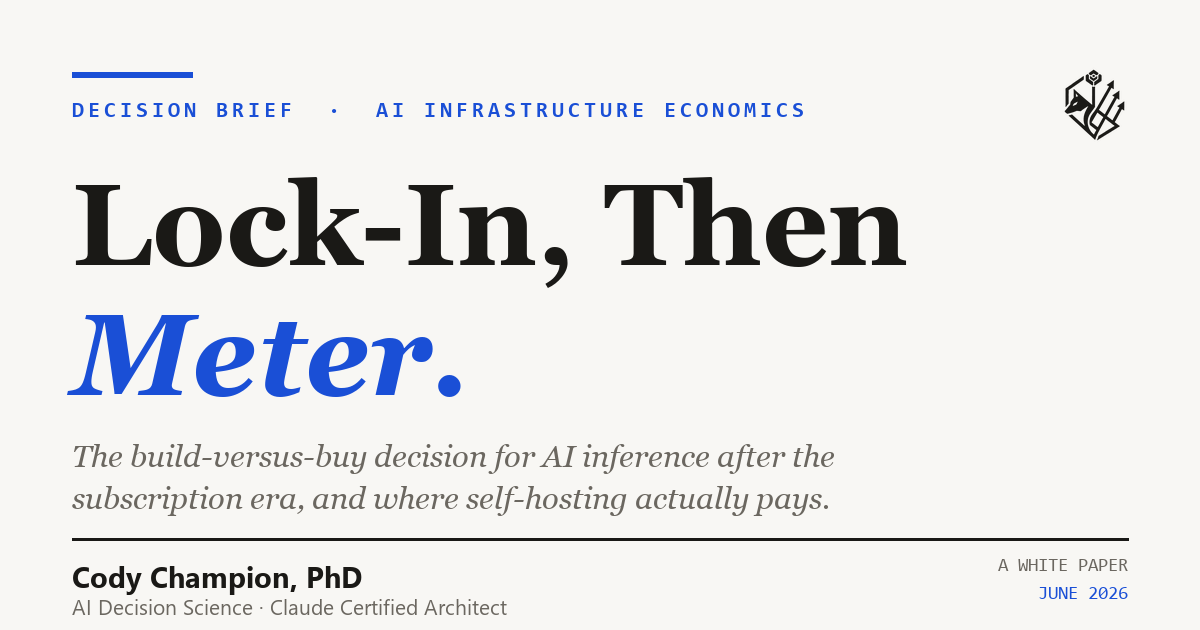
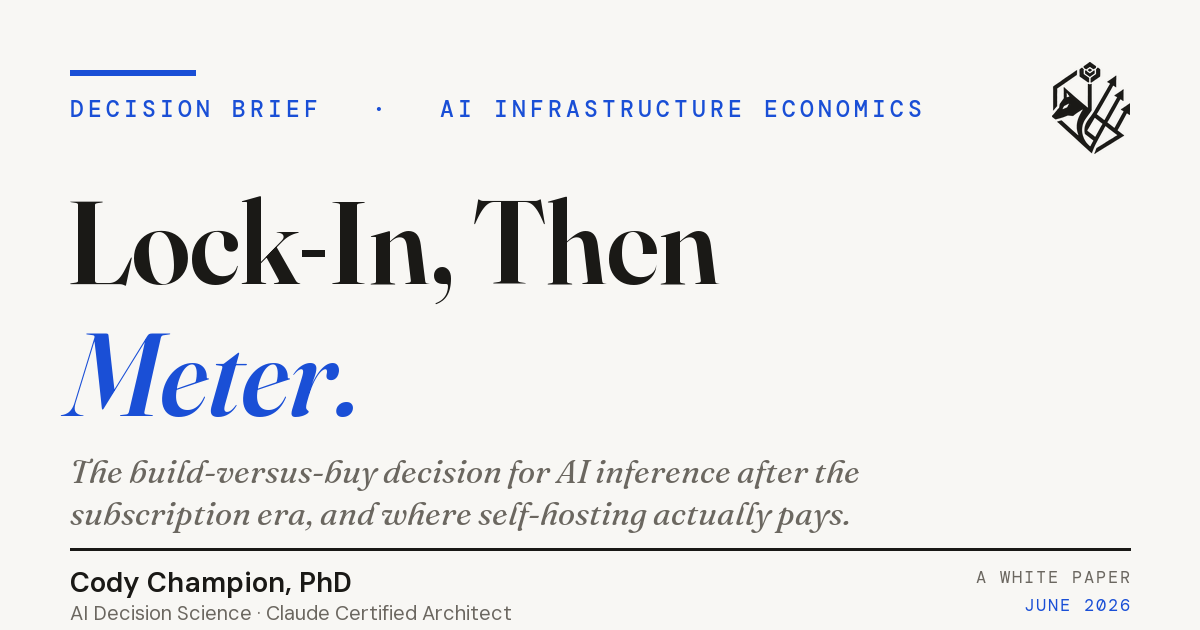
refactor(cv): move Lock-In, Then Meter brief to /writing/ + add Writing section index
Reorganize the white paper under a /writing/ taxonomy and regenerate its OG
card with the real brand fonts.

- git mv lock-in-then-meter/ -> writing/lock-in-then-meter/ (page + 3 downloads),
  remove the now-empty old dir
- fix the page's relative asset depth (../assets -> ../../assets for crest/icon)
  and absolutize the print link; update canonical + og:url to the new URL
- add satellites/cv/writing/index.html section index on the existing
  pillar-page.css convention (nav, hero, content, footer)
- rewire every reference to /writing/lock-in-then-meter/: cv-data.js caseStudies
  link, homepage SEO-fallback card, case-study-ml-cost cross-links, sitemap
  (plus a /writing/ section entry), llms.txt
- regenerate assets/lock-in-then-meter-og.png at 1200x630 with the real webfonts
  (Fraunces title, DM Mono eyebrow/tag, DM Sans byline), ink crest, paper bg

Verified over a local http server: new path + all 3 downloads return 200, crest
assets resolve from the new depth, no stale /lock-in-then-meter/ links remain,
no console errors.

diff --git a/writing/lock-in-then-meter/index.html b/writing/lock-in-then-meter/index.html
@@ -8,7 +8,7 @@
 <meta property="og:title" content="Lock-In, Then Meter | Cody Champion">
 <meta property="og:description" content="The build-versus-buy decision for AI inference after the subscription era. Managed open-model inference usually wins on cost; owning hardware only pays past roughly 100B tokens/month with a platform team. The real hedge is switchability.">
 <meta property="og:type" content="article">
-<meta property="og:url" content="https://codychampion.bitsandbeakers.com/lock-in-then-meter/">
+<meta property="og:url" content="https://codychampion.bitsandbeakers.com/writing/lock-in-then-meter/">
 <meta property="og:image" content="https://codychampion.bitsandbeakers.com/assets/lock-in-then-meter-og.png">
 <meta property="og:image:width" content="1200">
 <meta property="og:image:height" content="630">
@@ -16,8 +16,8 @@
 <meta name="twitter:title" content="Lock-In, Then Meter | Cody Champion">
 <meta name="twitter:description" content="Build versus buy for AI inference after the flat-rate era. Switchability beats owning GPUs; owned hardware only pays past ~100B tokens/month.">
 <meta name="twitter:image" content="https://codychampion.bitsandbeakers.com/assets/lock-in-then-meter-og.png">
-<link rel="canonical" href="https://codychampion.bitsandbeakers.com/lock-in-then-meter/">
-<link rel="icon" href="../assets/crest_dark.png">
+<link rel="canonical" href="https://codychampion.bitsandbeakers.com/writing/lock-in-then-meter/">
+<link rel="icon" href="../../assets/crest_dark.png">
 
 <link rel="preconnect" href="https://fonts.googleapis.com">
 <link rel="preconnect" href="https://fonts.gstatic.com" crossorigin>
@@ -87,13 +87,13 @@ img,svg{max-width:100%;height:auto;}
 .nav-bar a:hover{color:var(--c-text);text-decoration:none;}
 .nav-bar__right{display:flex;align-items:center;gap:var(--s-4);}
 .brand{display:flex;align-items:baseline;gap:var(--s-2);font-family:var(--font-display);font-weight:600;font-size:var(--t-md);color:var(--c-text);letter-spacing:.04em;}
-.brand .crest{display:inline-block;width:14px;height:16px;background-color:var(--c-text);-webkit-mask:url('../assets/crest_white.png') center/contain no-repeat;mask:url('../assets/crest_white.png') center/contain no-repeat;vertical-align:-2px;margin-right:4px;}
+.brand .crest{display:inline-block;width:14px;height:16px;background-color:var(--c-text);-webkit-mask:url('../../assets/crest_white.png') center/contain no-repeat;mask:url('../../assets/crest_white.png') center/contain no-repeat;vertical-align:-2px;margin-right:4px;}
 .theme-toggle{background:none;border:1px solid var(--c-border);border-radius:var(--r-sm);color:var(--c-text-subtle);font-size:13px;line-height:1;padding:5px 8px;cursor:pointer;font-family:var(--font-ui);}
 .theme-toggle:hover{color:var(--c-text);border-color:var(--c-border-strong);}
 
 /* crest mask, recolorable (per system) */
 .crest{display:inline-block;background-color:var(--c-accent);
-  -webkit-mask:url('../assets/crest_white.png') center/contain no-repeat; mask:url('../assets/crest_white.png') center/contain no-repeat;}
+  -webkit-mask:url('../../assets/crest_white.png') center/contain no-repeat; mask:url('../../assets/crest_white.png') center/contain no-repeat;}
 .crest--ink{background-color:var(--c-text);}
 
 /* eyebrow / mode-chip register */
@@ -216,7 +216,7 @@ ul.tight li b{color:var(--c-text);}
 .foot{margin-top:var(--s-24);padding-top:var(--s-6);border-top:1px solid var(--c-border-strong);display:flex;justify-content:space-between;align-items:end;gap:var(--s-6);font-family:var(--font-ui);font-size:var(--t-sm);color:var(--c-text-subtle);}
 .foot a{color:var(--c-text);text-decoration:underline;text-underline-offset:4px;text-decoration-color:var(--c-accent);}
 .foot__disclaimer{margin-top:var(--s-2);color:var(--c-text-subtle);font-style:italic;}
-.foot__crest{width:40px;height:46px;flex-shrink:0;background-color:var(--c-text);-webkit-mask:url('../assets/crest_white.png') center/contain no-repeat;mask:url('../assets/crest_white.png') center/contain no-repeat;}
+.foot__crest{width:40px;height:46px;flex-shrink:0;background-color:var(--c-text);-webkit-mask:url('../../assets/crest_white.png') center/contain no-repeat;mask:url('../../assets/crest_white.png') center/contain no-repeat;}
 
 /* ── RESPONSIVE ── */
 @media(max-width:720px){
@@ -466,7 +466,7 @@ ul.tight li b{color:var(--c-text);}
 
   <div class="foot">
     <div>
-      <p><a href="/">← Back to CV</a> &middot; <a href="/case-study-ml-cost">ML Cost case study</a> &middot; <a href="print.html">Print CV</a></p>
+      <p><a href="/">← Back to CV</a> &middot; <a href="/case-study-ml-cost">ML Cost case study</a> &middot; <a href="/print.html">Print CV</a></p>
       <p style="margin-top:var(--s-2);color:var(--c-text-subtle);">AI Decision Science &middot; Inference Economics &middot; C&middot;C ◆ 2026</p>
       <p class="foot__disclaimer">Views my own. Not written for or on behalf of any employer or client.</p>
     </div>

diff --git a/writing/index.html b/writing/index.html
@@ -1,0 +1,51 @@
+<!doctype html>
+<html lang="en">
+<head>
+<meta charset="utf-8">
+<meta name="viewport" content="width=device-width, initial-scale=1">
+<title>Writing | Cody Champion</title>
+<meta name="description" content="Decision briefs and white papers on applied AI: infrastructure economics, build-versus-buy for inference, and the engineering behind regulated GenAI systems.">
+<link rel="canonical" href="https://codychampion.bitsandbeakers.com/writing/">
+<link rel="stylesheet" href="../pillar-page.css">
+<link rel="preconnect" href="https://fonts.googleapis.com">
+<link href="https://fonts.googleapis.com/css2?family=Fraunces:wght@400;500;600&family=Lora:wght@400;500&family=DM+Sans:wght@400;500;600&family=DM+Mono:wght@400;500&display=swap" rel="stylesheet">
+</head>
+<body>
+<main class="page">
+  <nav class="nav">
+    <a class="brand" href="/">cody.champion</a>
+    <div class="links">
+      <a href="/">Profile</a>
+      <a href="/projects/llm-eval-workbench">LLM workbench</a>
+      <a href="/research/paef-contract-compliance">PAEF research</a>
+    </div>
+  </nav>
+  <header class="hero">
+    <div class="eyebrow">Writing - Decision Briefs &amp; White Papers</div>
+    <h1>Writing</h1>
+    <p class="deck">Decision briefs and white papers on applied AI: where the economics of inference actually land, and the engineering behind dependable, regulated GenAI systems.</p>
+    <div class="tags">
+      <span class="tag">AI Infrastructure</span><span class="tag">Inference Economics</span>
+      <span class="tag">Build vs Buy</span><span class="tag">LLMOps</span>
+      <span class="tag">Decision Briefs</span>
+    </div>
+  </header>
+  <div class="layout">
+    <aside class="rail">
+      <a href="#briefs">01 Briefs</a>
+    </aside>
+    <article class="content">
+      <section id="briefs">
+        <h2>Decision briefs</h2>
+        <div class="card">
+          <h3 style="margin-top:0;"><a href="/writing/lock-in-then-meter/">Lock-In, Then Meter</a></h3>
+          <p style="margin-bottom:0;">A build-versus-buy decision brief for AI inference after the flat-rate era. The real hedge against token metering is switchability, an OpenAI-compatible interface against interchangeable open-weight providers with a frontier model in reserve, not owning GPUs. Managed open-model inference usually wins on cost; owned hardware only pays past roughly 100B tokens/month with a platform team. Includes a downloadable PDF, an editable cost model, and the model source in Python.</p>
+        </div>
+        <p><a href="/writing/lock-in-then-meter/">Read the brief.</a></p>
+      </section>
+    </article>
+  </div>
+  <footer class="footer">Cody Champion - Dublin - Enterprise GenAI, LLM evaluation, and AI governance</footer>
+</main>
+</body>
+</html>

diff --git a/case-study-ml-cost.html b/case-study-ml-cost.html
@@ -597,14 +597,14 @@ Reduction:  ($26,200 − $90) / $26,200 = <span class="result">99.66%</span>
         <p>Baseline uses AWS on-demand public rates as conservative proxy. Actual contract rates were negotiated. Structural drivers and proportional reduction are accurate regardless.</p>
         <hr>
         <strong>Related</strong>
-        <p>The same cost-per-unit discipline applied to the build-vs-buy question for LLM inference: <a href="/lock-in-then-meter/">Lock-In, Then Meter</a>, a decision brief and cost model.</p>
+        <p>The same cost-per-unit discipline applied to the build-vs-buy question for LLM inference: <a href="/writing/lock-in-then-meter/">Lock-In, Then Meter</a>, a decision brief and cost model.</p>
       </aside>
 
     </div><!-- /cs-body -->
 
     <div class="foot">
       <div>
-        <p><a href="/">← Back to CV</a> · <a href="/lock-in-then-meter/">Lock-In, Then Meter</a> · <a href="print.html">Print CV</a></p>
+        <p><a href="/">← Back to CV</a> · <a href="/writing/lock-in-then-meter/">Lock-In, Then Meter</a> · <a href="print.html">Print CV</a></p>
         <p style="margin-top:var(--s-2);color:var(--c-text-subtle);">Production Engineering · Geospatial ML · MLOps · C·C ◆ 2025</p>
       </div>
       <div class="foot__crest"></div>

diff --git a/index.html b/index.html
@@ -342,7 +342,7 @@ img { max-width: 100%; height: auto; }
 
       <article style="margin-bottom:32px;">
         <h3 style="font-family:Georgia,serif;font-size:20px;margin:0 0 8px;">
-          <a href="/lock-in-then-meter/" style="color:#1a4fd6;text-decoration:none;">Lock-In, Then Meter</a>
+          <a href="/writing/lock-in-then-meter/" style="color:#1a4fd6;text-decoration:none;">Lock-In, Then Meter</a>
         </h3>
         <p style="margin:0 0 8px;">A build-versus-buy decision brief and cost model for AI inference after the flat-rate era. The real hedge against token metering is switchability, an OpenAI-compatible interface against interchangeable open-weight providers with a frontier model in reserve, not owning GPUs. Managed open-model inference usually wins on cost; owned hardware only pays past roughly 100B tokens/month with a platform team.</p>
         <p style="font-size:13px;color:#6b6760;margin:0;">White Paper · AI Infrastructure · LLMOps · Cost Modeling · Build vs Buy</p>

diff --git a/cv-data.js b/cv-data.js
@@ -91,7 +91,7 @@ window.CV_DATA = {
       tags: ['AI Infrastructure', 'LLMOps', 'Cost Modeling', 'Build vs Buy', 'Decision Brief'],
       label: 'White Paper',
       cta: 'Read the brief →',
-      link: '/lock-in-then-meter/',
+      link: '/writing/lock-in-then-meter/',
     },
     {
       id: 'nsf-ai-governance',
